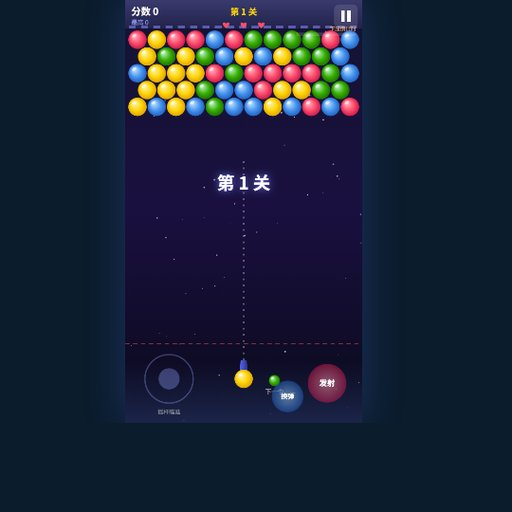
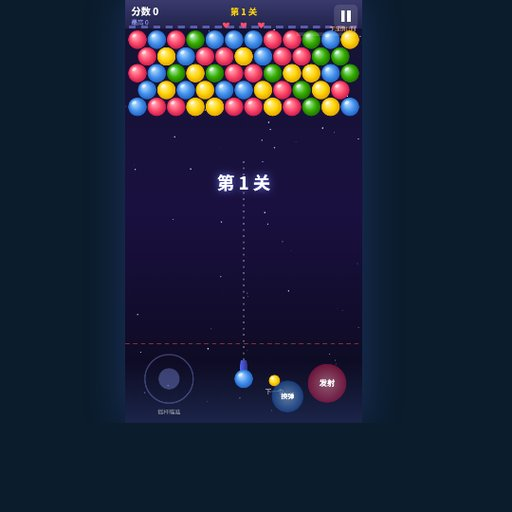
fix: 缩略图去暗边充满正方形展示格
JPG 内嵌黑边在 1:1 格子中无法被 cover 裁掉；生成时剔除暗边并绝对定位铺满。

Changed region(s): [[0.25, 0.0312, 0.7188, 0.25], [0.4375, 0.7188, 0.5625, 0.7812]]

diff --git a/public/js/admin/game-thumbs.js b/public/js/admin/game-thumbs.js
@@ -84,37 +84,74 @@
     if (!ctx) return canvas;
     var data = ctx.getImageData(0, 0, w, h).data;
     var thr = 72;
-    var minX = w;
-    var minY = h;
-    var maxX = 0;
-    var maxY = 0;
-    var found = false;
-    for (var y = 0; y < h; y++) {
+
+    function rowAvg(y) {
+      var sum = 0;
       for (var x = 0; x < w; x++) {
         var i = (y * w + x) * 4;
-        var sum = data[i] + data[i + 1] + data[i + 2];
-        if (sum > thr) {
-          found = true;
-          if (x < minX) minX = x;
-          if (y < minY) minY = y;
-          if (x > maxX) maxX = x;
-          if (y > maxY) maxY = y;
-        }
+        sum += data[i] + data[i + 1] + data[i + 2];
       }
+      return sum / w;
     }
-    if (!found) return canvas;
-    var pad = 6;
-    minX = Math.max(0, minX - pad);
-    minY = Math.max(0, minY - pad);
-    maxX = Math.min(w - 1, maxX + pad);
-    maxY = Math.min(h - 1, maxY + pad);
-    var tw = maxX - minX + 1;
-    var th = maxY - minY + 1;
+
+    function colAvg(x) {
+      var sum = 0;
+      for (var y = 0; y < h; y++) {
+        var i = (y * w + x) * 4;
+        sum += data[i] + data[i + 1] + data[i + 2];
+      }
+      return sum / h;
+    }
+
+    var top = 0;
+    var bottom = h;
+    var left = 0;
+    var right = w;
+    while (top < bottom - 8 && rowAvg(top) < thr) top++;
+    while (bottom > top + 8 && rowAvg(bottom - 1) < thr) bottom--;
+    while (left < right - 8 && colAvg(left) < thr) left++;
+    while (right > left + 8 && colAvg(right - 1) < thr) right--;
+    if (bottom <= top + 8 || right <= left + 8) return canvas;
+
+    var tw = right - left;
+    var th = bottom - top;
     var out = document.createElement('canvas');
     out.width = tw;
     out.height = th;
-    out.getContext('2d').drawImage(canvas, minX, minY, tw, th, 0, 0, tw, th);
-    return out;
+    out.getContext('2d').drawImage(canvas, left, top, tw, th, 0, 0, tw, th);
+
+    var minX = tw;
+    var minY = th;
+    var maxX = 0;
+    var maxY = 0;
+    var found = false;
+    var d2 = out.getContext('2d').getImageData(0, 0, tw, th).data;
+    for (var y2 = 0; y2 < th; y2++) {
+      for (var x2 = 0; x2 < tw; x2++) {
+        var j = (y2 * tw + x2) * 4;
+        var sum2 = d2[j] + d2[j + 1] + d2[j + 2];
+        if (sum2 > thr) {
+          found = true;
+          if (x2 < minX) minX = x2;
+          if (y2 < minY) minY = y2;
+          if (x2 > maxX) maxX = x2;
+          if (y2 > maxY) maxY = y2;
+        }
+      }
+    }
+    if (!found) return out;
+    var pad = 4;
+    minX = Math.max(0, minX - pad);
+    minY = Math.max(0, minY - pad);
+    maxX = Math.min(tw - 1, maxX + pad);
+    maxY = Math.min(th - 1, maxY + pad);
+    var fw = maxX - minX + 1;
+    var fh = maxY - minY + 1;
+    var fin = document.createElement('canvas');
+    fin.width = fw;
+    fin.height = fh;
+    fin.getContext('2d').drawImage(out, minX, minY, fw, fh, 0, 0, fw, fh);
+    return fin;
   }
 
   function cropCover(img, w, h) {

diff --git a/public/css/tools-hub.css b/public/css/tools-hub.css
@@ -512,18 +512,17 @@
     gap: 0.875rem;
 }
 
-.hub-game-card {
+.hub-game-card.hub-tool-card {
     display: flex;
     flex-direction: column;
     align-items: stretch;
     width: 100%;
     max-width: none;
-    min-height: 0;
     padding: 0;
-    overflow: hidden;
 }
 
 .hub-game-card-thumb {
+    position: relative;
     display: block;
     aspect-ratio: 1 / 1;
     background: #0f172a;
@@ -531,6 +530,8 @@
 }
 
 .hub-game-card-thumb img {
+    position: absolute;
+    inset: 0;
     width: 100%;
     height: 100%;
     object-fit: cover;

diff --git a/public/games.html b/public/games.html
@@ -12,7 +12,7 @@
     <link href="vendor/font-awesome/css/all.min.css?v=minimax1" rel="stylesheet">
     <link rel="stylesheet" href="css/site-mobile-nav.css?v=minimax1">
     <link rel="stylesheet" href="css/base.css?v=minimax1">
-    <link rel="stylesheet" href="css/tools-hub.css?v=games9">
+    <link rel="stylesheet" href="css/tools-hub.css?v=games10">
     <script>
         tailwind.config = { theme: { extend: { colors: { primary: '#2563eb' } } } };
     </script>

diff --git a/public/js/games-hub.js b/public/js/games-hub.js
@@ -33,7 +33,7 @@
         var url = item.url || '';
         var m = url.match(/html\/game\/([^/?]+)\.html/i);
         if (!m) return '';
-        return 'assets/game/thumbs/' + m[1] + '.jpg?v=9';
+        return 'assets/game/thumbs/' + m[1] + '.jpg?v=10';
     }
 
     function bindSearch(toolbarEl) {

diff --git a/deploy/capture-game-thumbs.py b/deploy/capture-game-thumbs.py
@@ -116,21 +116,52 @@ def content_bbox(im: Image.Image, threshold: int = 22) -> tuple[int, int, int, i
     )
 
 
+def trim_dark_edges(im: Image.Image, threshold: int = 20) -> Image.Image:
+    """Remove letterbox/pillarbox bands so square thumbs fill the frame."""
+    rgb = im.convert("RGB")
+    w, h = rgb.size
+    px = rgb.load()
+    thr = threshold * 3
+
+    def row_avg(y: int) -> float:
+        return sum(px[x, y][0] + px[x, y][1] + px[x, y][2] for x in range(w)) / w
+
+    def col_avg(x: int) -> float:
+        return sum(px[x, y][0] + px[x, y][1] + px[x, y][2] for y in range(h)) / h
+
+    top, bottom, left, right = 0, h, 0, w
+    while top < bottom - 8 and row_avg(top) < thr:
+        top += 1
+    while bottom > top + 8 and row_avg(bottom - 1) < thr:
+        bottom -= 1
+    while left < right - 8 and col_avg(left) < thr:
+        left += 1
+    while right > left + 8 and col_avg(right - 1) < thr:
+        right -= 1
+    if bottom <= top + 8 or right <= left + 8:
+        return im
+    return rgb.crop((left, top, right, bottom))
+
+
 DOM_BOARD_SLUGS = frozenset({"gomoku", "puzzle", "klotski"})
 
 
 def square_crop(im: Image.Image, slug: str | None = None) -> Image.Image:
     box = content_bbox(im)
     im = im.crop(box)
+    im = trim_dark_edges(im)
     w, h = im.size
     if slug in DOM_BOARD_SLUGS and h > int(w * 1.08):
-        top = int(h * 0.24)
+        top = int(h * 0.18)
         im = im.crop((0, top, w, h))
+        im = trim_dark_edges(im)
         w, h = im.size
     side = min(w, h)
     left = max(0, (w - side) // 2)
     top = max(0, (h - side) // 2)
-    return im.crop((left, top, left + side, top + side))
+    im = im.crop((left, top, left + side, top + side))
+    im = trim_dark_edges(im)
+    return im
 
 
 def to_thumb(src_png: Path, dest_jpg: Path, slug: str | None = None) -> None:
